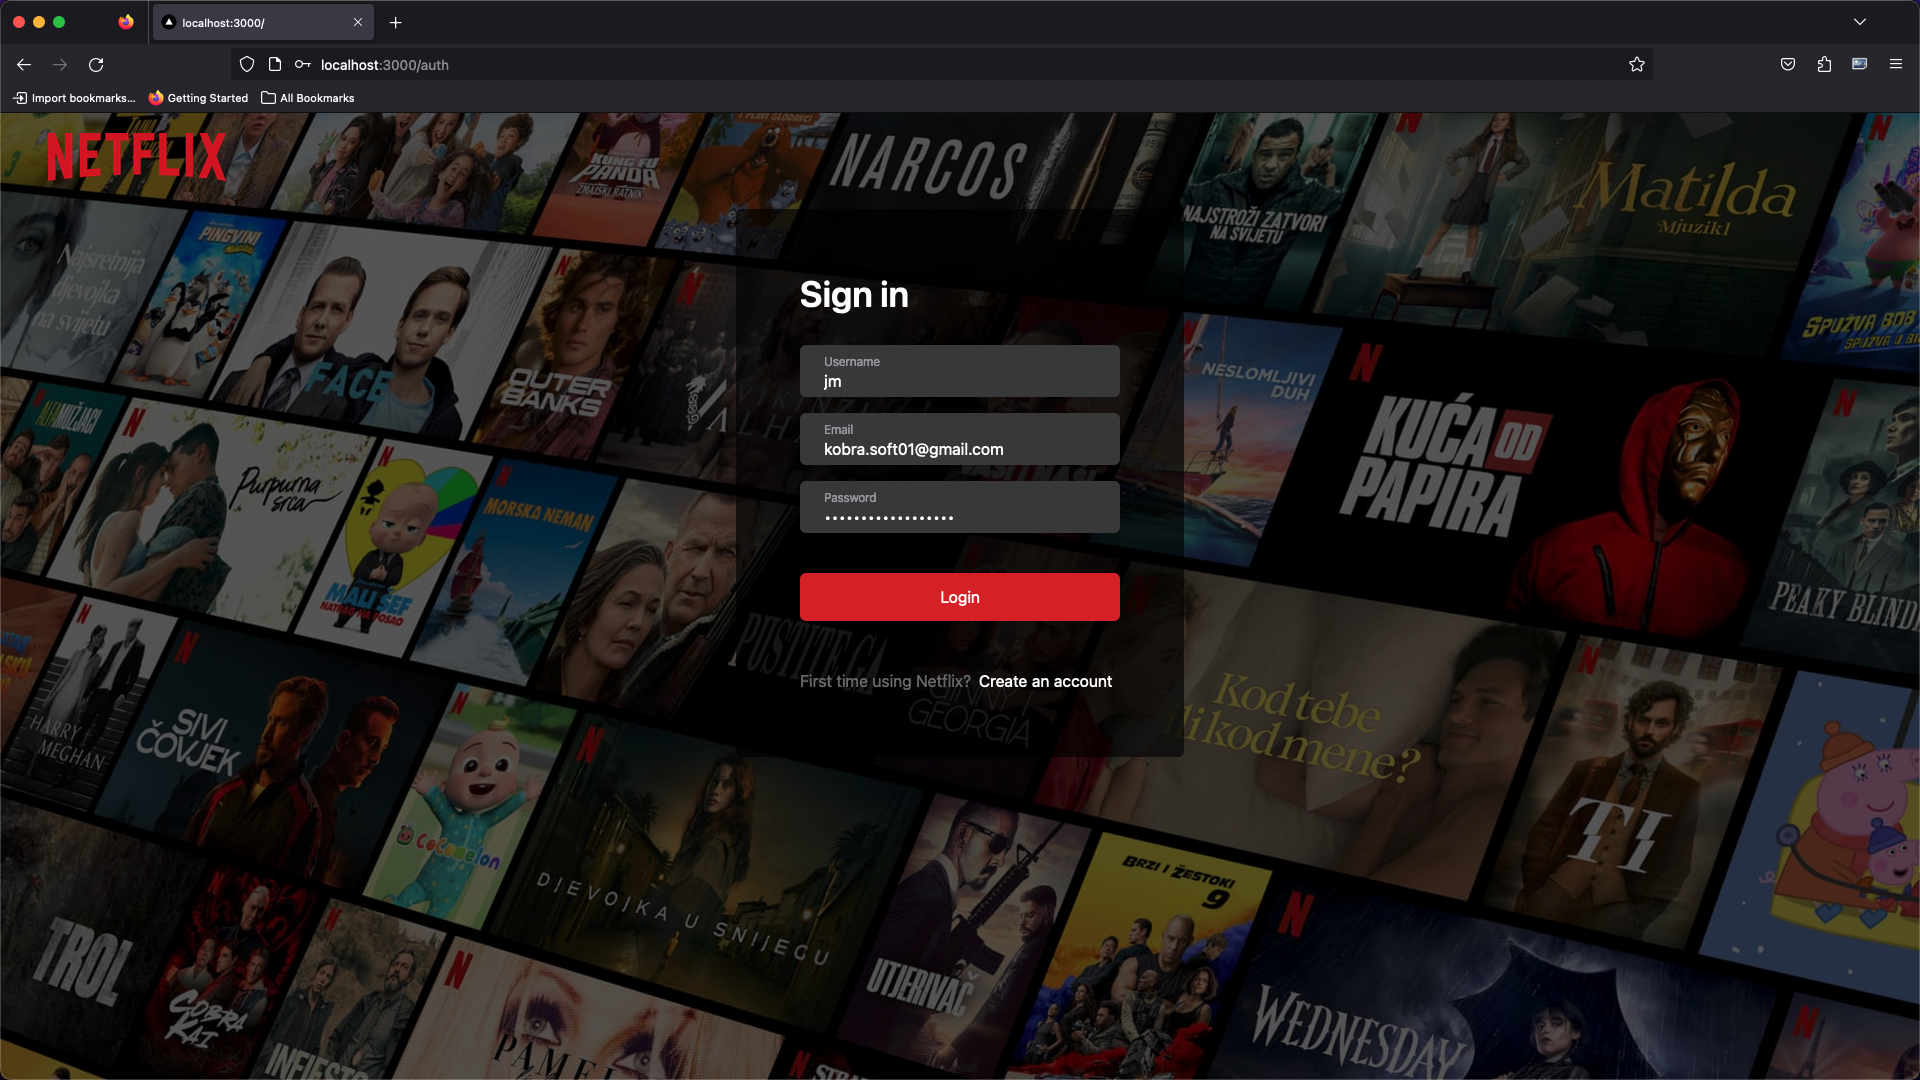
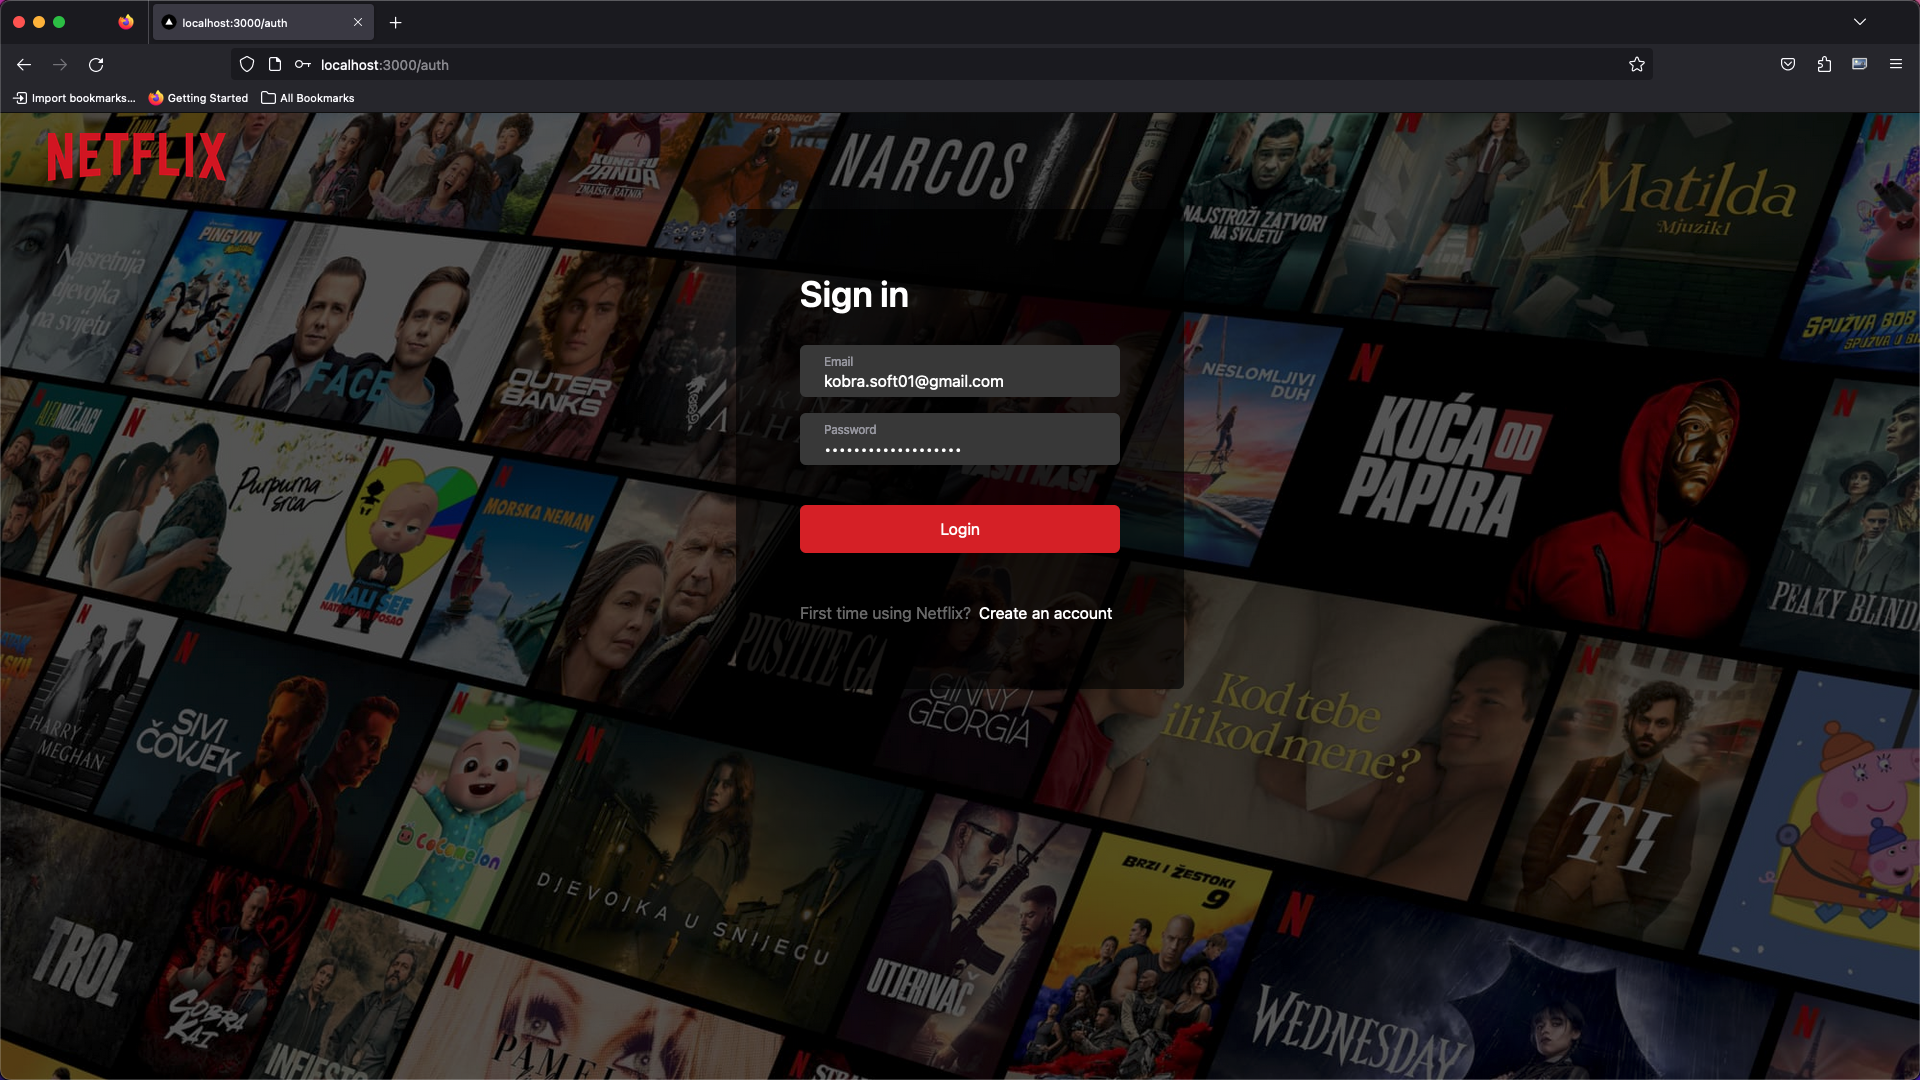
Commit - MongoDB (Backend)

Changed region(s): [[0.4062, 0.3972, 0.5938, 0.5806], [0.4062, 0.6111, 0.625, 0.7028], [0.4375, 0.3361, 0.5312, 0.3667]]

diff --git a/pages/auth.tsx b/pages/auth.tsx
@@ -25,12 +25,14 @@ const Auth = () => {
                 {variant === 'login' ? 'Sign in' : 'Register'}
             </h2>
             <div className="flex flex-col gap-4">
+              { variant === 'register' && (
             <Input 
                 id="name"
                 label="Username"
                 value={name}
                 onChange={(ev: any) => setName(ev.target.value)}
             />
+          )}
             <Input 
                 id="email"
                 label="Email"

diff --git a/lib/prismadb.ts b/lib/prismadb.ts
@@ -1,0 +1,6 @@
+import { PrismaClient } from '@prisma/client'
+
+const client = global.prismadb || new PrismaClient()
+if (process.env.NODE_ENV !== 'production') global.prismadb = client
+
+export default client

diff --git a/global.d.ts b/global.d.ts
@@ -1,0 +1,8 @@
+import type { PrismaClient } from '@prisma/client';
+import type { MongoClient } from 'mongodb';
+
+declare global {
+  namespace globalThis {
+    var prismadb: PrismaClient
+  }
+}
